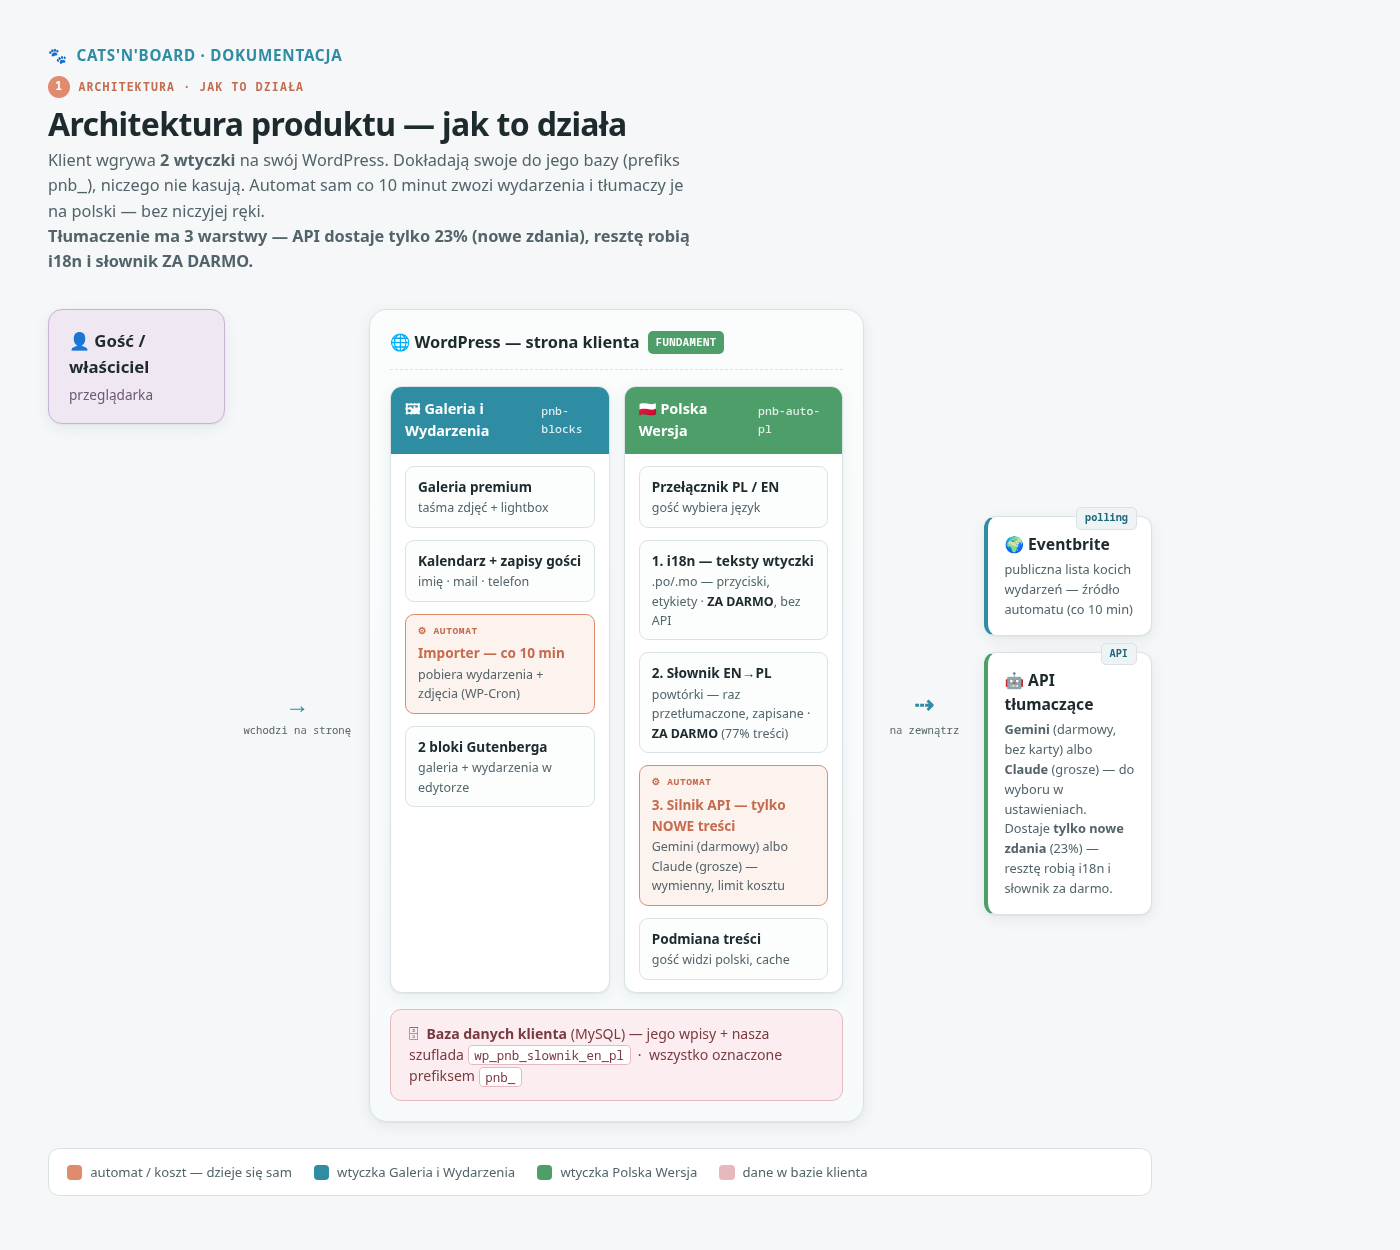
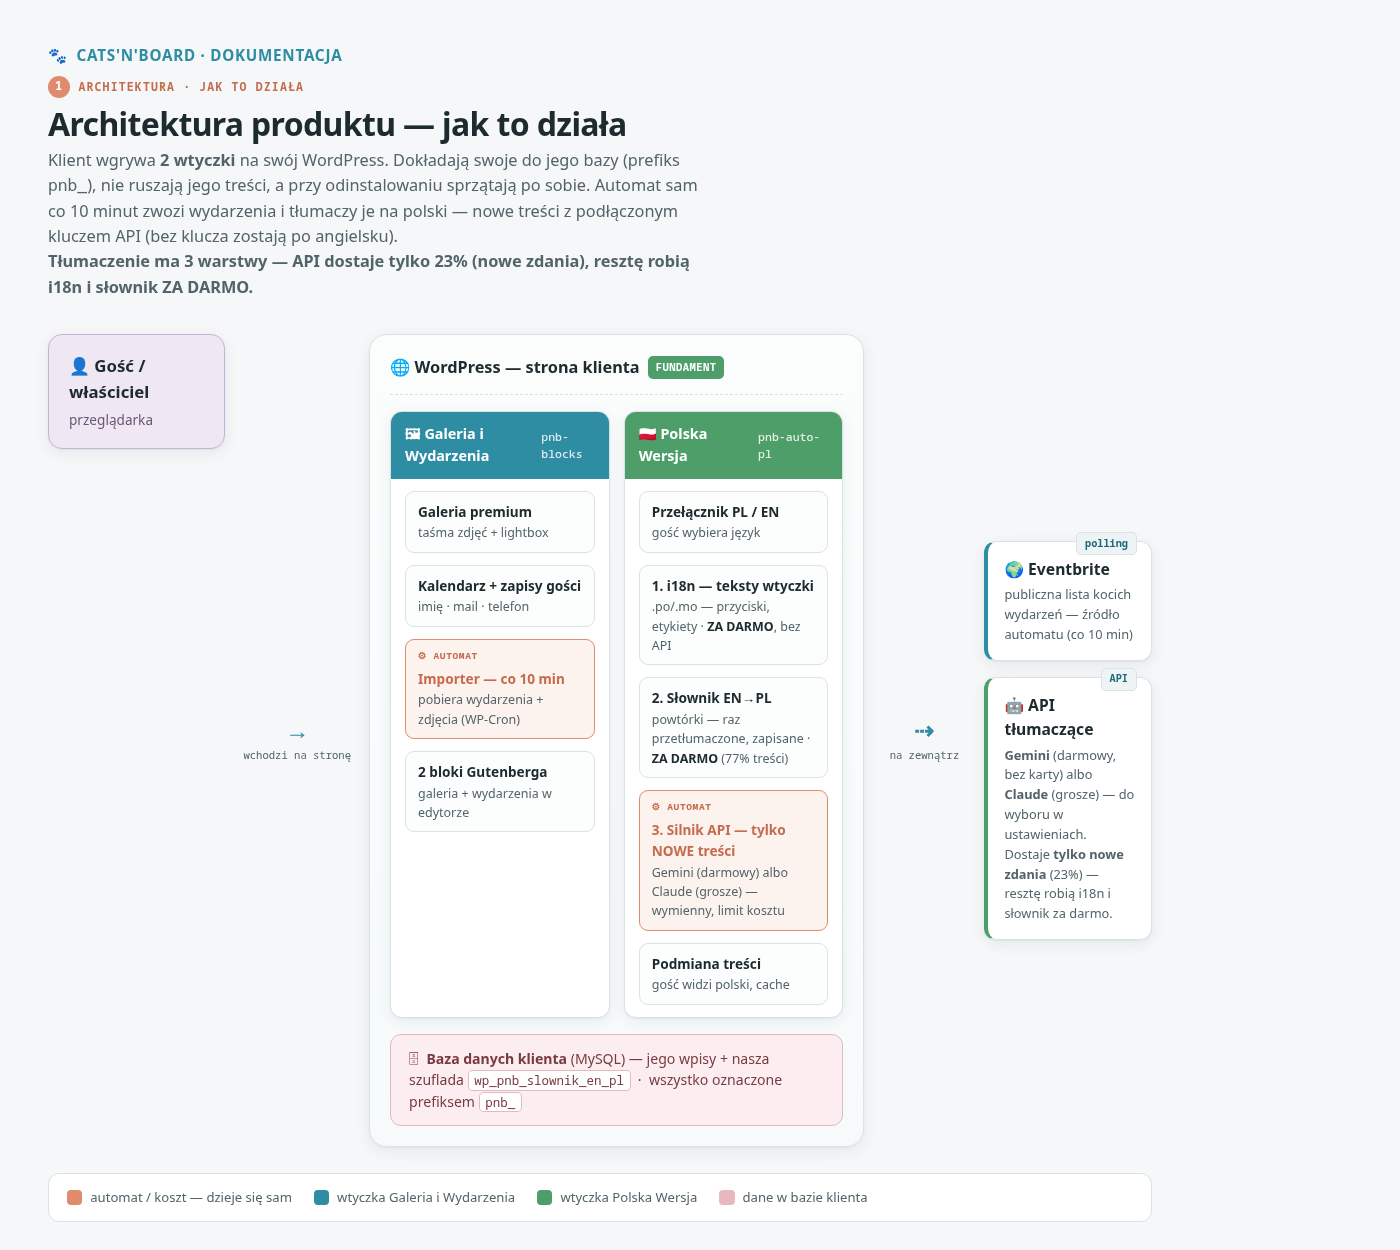
docs(readme): "niczego nie kasuja" i "bez niczyjej reki" mowia teraz cala prawde (3. runda recenzji) (#87)
Recenzent (16.07): "w readme dalej jest <<czego nie kasuj>> xd, nie poprawiles tego" +
"tam tez co jest BEZ auto-tlumaczenia". MIAL RACJE — w rundzie 2 prosil "uninstall do
poprawki tez w README", a my poprawilismy instrukcje techniczna, komentarz uninstall
i instrukcje klienta... README tylko o badge. Zdanie "niczego nie kasuja" zostalo,
a po v2.4.1 brzmi sprzecznie (przeciez Delete kasuje liste gosci i klucze).

POPRAWIONE (4 kopie tego samego zdania):
- README "Jak to dziala": nie ruszaja niczego co juz jest + przy odinstalowaniu sprzataja
  po sobie (wlasne dane i klucze; tresci i zdjecia klienta zostaja) + UCZCIWA GRANICA
  AUTOMATU: bez klucza API nowe tresci zostaja po angielsku
- diagram 1 (diag-arch.html + PNG przerenderowany chromium 1400px, sprawdzony OKIEM):
  ta sama tresc w skrocie
- INSTRUKCJA-TECHNICZNA "Architektura w skrocie": jw. + odeslanie do wiersza uninstall.php
- README paczki (heredoc w build-paczki.sh, warsztat): jw.

ZOSTAWIONE swiadomie (sa precyzyjne): "Deactivate niczego nie kasuje" (prawda — wylaczenie
to nie usuniecie), "nie kasuja niczego TWOJEGO" (kwalifikowane).

diff --git a/dokumentacja-techniczna/diagramy-zrodla/diag-arch.html b/dokumentacja-techniczna/diagramy-zrodla/diag-arch.html
@@ -68,7 +68,8 @@
   <div class="eyebrow"><span class="num">1</span> Architektura · jak to działa</div>
   <h1>Architektura produktu — jak to działa</h1>
   <p class="sub">Klient wgrywa <b>2 wtyczki</b> na swój WordPress. Dokładają swoje do jego bazy (prefiks <code>pnb_</code>),
-     niczego nie kasują. Automat sam co 10 minut zwozi wydarzenia i tłumaczy je na polski — bez niczyjej ręki.
+     nie ruszają jego treści, a przy odinstalowaniu sprzątają po sobie. Automat sam co 10 minut zwozi wydarzenia
+     i tłumaczy je na polski — nowe treści z podłączonym kluczem API (bez klucza zostają po angielsku).
      <br><b>Tłumaczenie ma 3 warstwy — API dostaje tylko 23% (nowe zdania), resztę robią i18n i słownik ZA DARMO.</b></p>
 
   <div class="flow">

diff --git a/README.md b/README.md
@@ -30,9 +30,14 @@ wtyczka **tłumaczenia AI** (EN→PL). W repozytorium jest też motyw demonstrac
 
 ## Jak to działa (w skrócie)
 
-Klient wgrywa 2 wtyczki na swój WordPress. Wtyczki dokładają swoje do jego bazy (prefiks `pnb_`),
-niczego nie kasują. Automat sam co 10 minut zwozi wydarzenia z Eventbrite, dodaje zdjęcia i tłumaczy
-je na polski — bez niczyjej ręki.
+Klient wgrywa 2 wtyczki na swój WordPress. Wtyczki dokładają swoje do jego bazy (prefiks `pnb_`)
+i **nie ruszają niczego, co już na stronie jest** — a przy odinstalowaniu **sprzątają po sobie**:
+kasują własne dane i klucze API, Twoje treści i zdjęcia zostają. Automat sam co 10 minut zwozi
+wydarzenia z Eventbrite, dodaje zdjęcia i tłumaczy je na polski.
+
+**Uczciwa granica automatu:** gotowe teksty strony są po polsku od razu (słownik w paczce),
+a **nowe** treści tłumaczą się same tylko z podłączonym kluczem API — **bez klucza nowe zostają
+po angielsku** (szczegóły: instrukcja, KROK 5).
 
 ![Architektura produktu](dokumentacja-techniczna/diagramy/1-architektura-produktu.png)
 

diff --git a/dokumentacja-techniczna/INSTRUKCJA-TECHNICZNA.md b/dokumentacja-techniczna/INSTRUKCJA-TECHNICZNA.md
@@ -9,7 +9,9 @@ WordPressa (wtyczki, hooki, WP-Cron, baza).
 
 Produkt = **dwie wtyczki** (motyw w paczce jest tylko poligonem testowym — nie dla produkcji).
 Wtyczki są **samowystarczalne**: działają na dowolnym motywie, dokładają swoje dane do bazy
-klienta z prefiksem `pnb_`, niczego nie kasują ani nie nadpisują.
+klienta z prefiksem `pnb_` i nie ruszają istniejących treści klienta ani ich nie nadpisują.
+Przy **odinstalowaniu sprzątają po sobie** — własne opcje, klucze API i dane (szczegóły:
+wiersz `uninstall.php` w tabeli plików niżej); treści i media klienta zostają.
 
 ![Architektura produktu](diagramy/1-architektura-produktu.png)
 